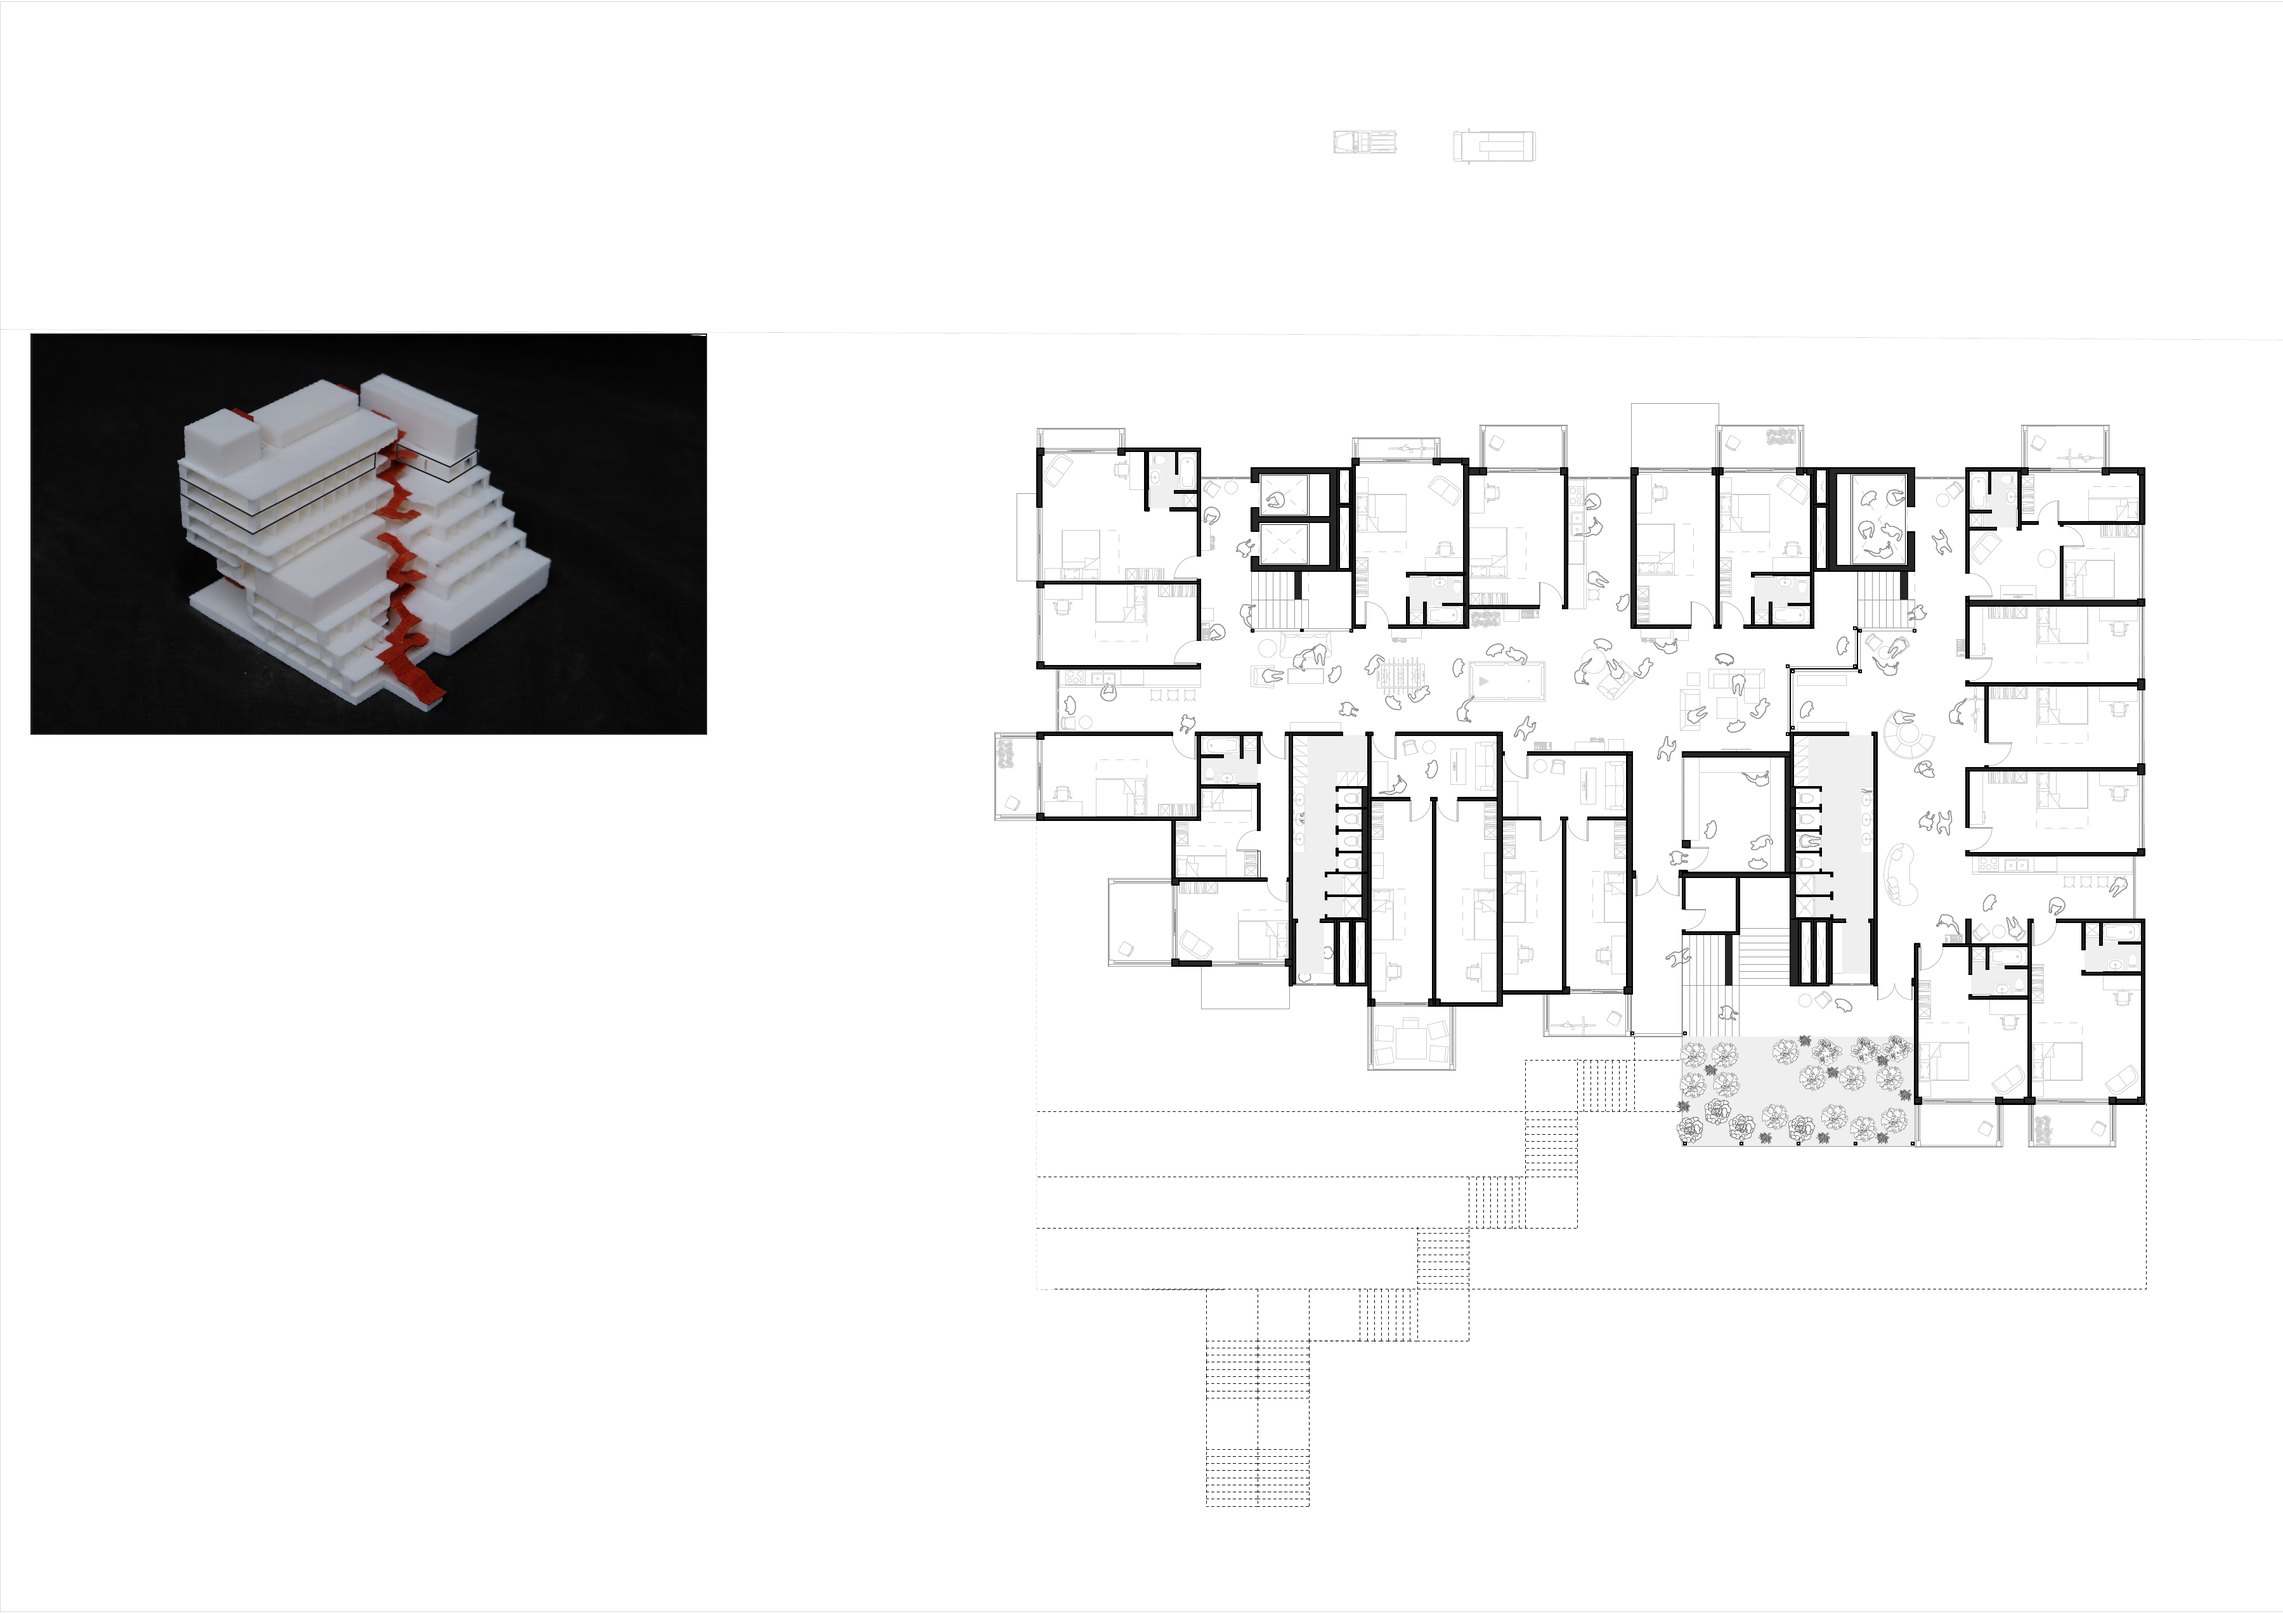
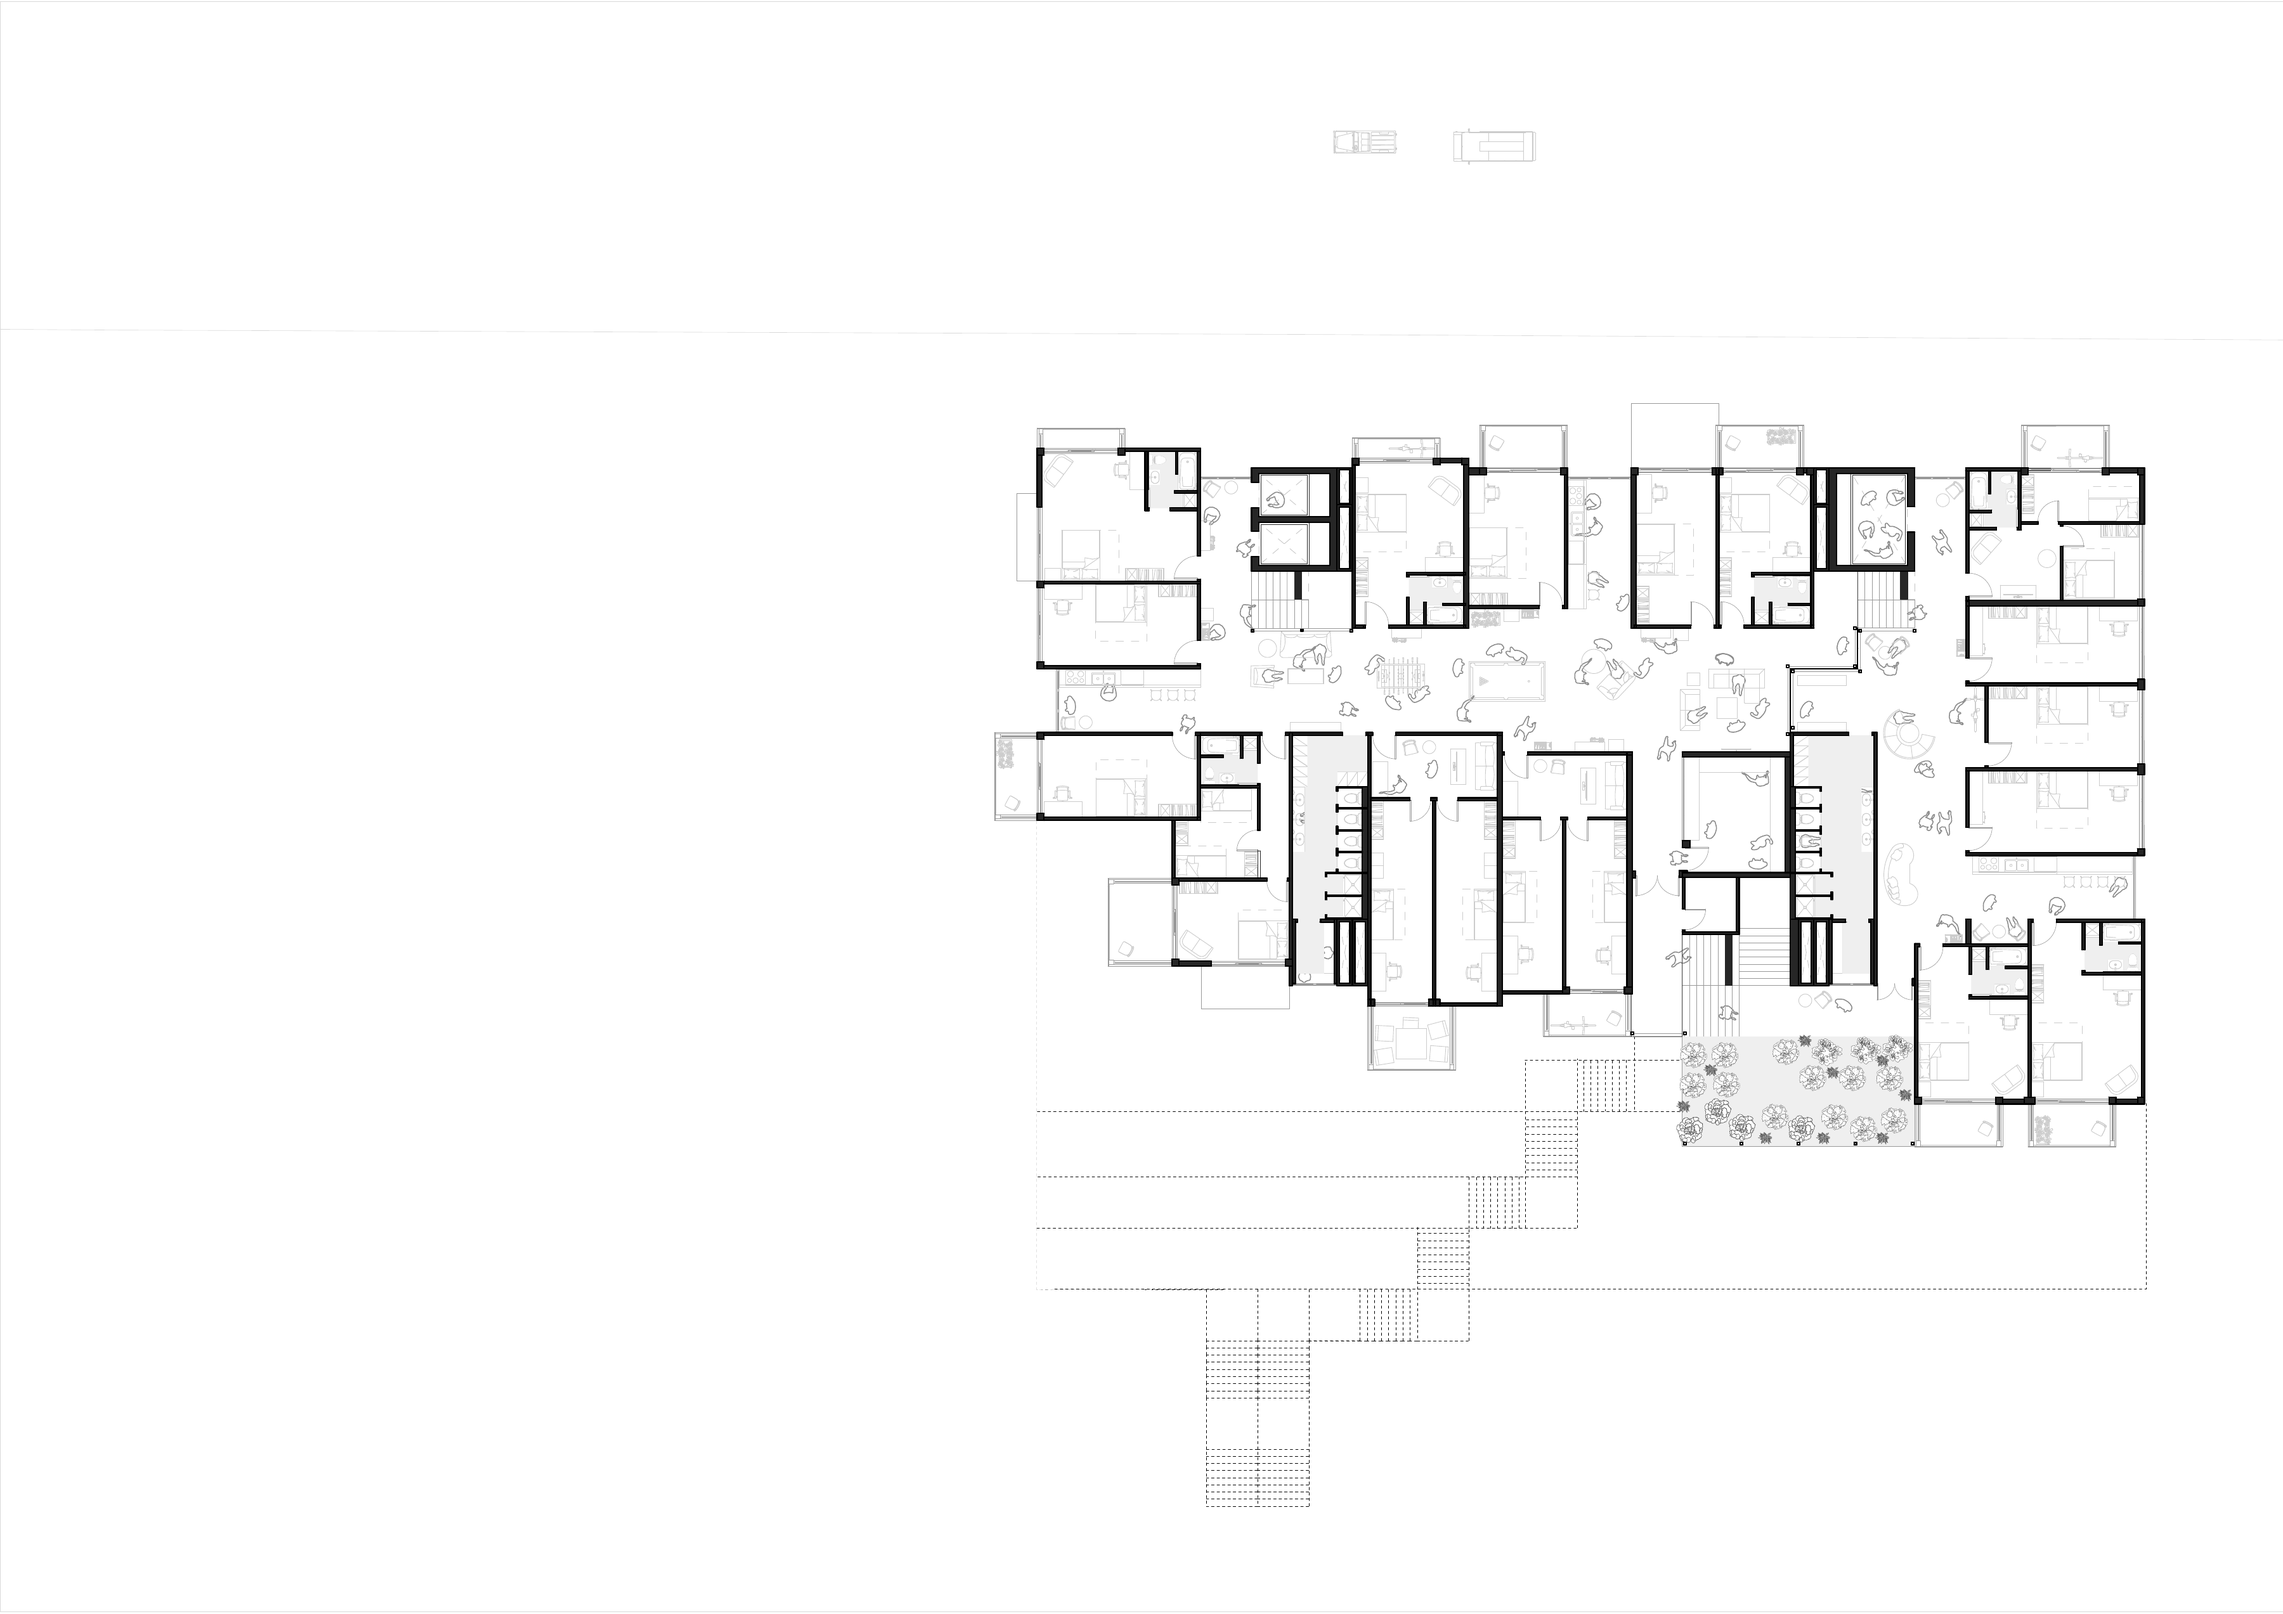
East 5th: take the model photos out of the plan sheets
Claude-Session: https://claude.ai/code/session_012xVSFeyKoQyZUFPAaCyKB9

Changed region(s): [[0.0, 0.1862, 0.3111, 0.4654]]

diff --git a/public/projects.js b/public/projects.js
@@ -95,7 +95,7 @@ window.PROJECTS = {
     credits: [["Site", "324 E 5th St, New York"], ["Studio", "Core III, Columbia GSAPP"], ["Program", "Housing as social infrastructure"], ["Critic", "Lindy Roy"], ["Year", "2025"]],
     diagram: {src: "img/social-sanctuary/hand-drawing.jpg"},
     // no hero: the hand drawing opens, then the stair render, his sheets 11-15 (words, titles, scales and the photo's
-    // dashed leader taken off), the aerial render last (his order, 2026-11-05)
+    // dashed leader taken off, model photos removed 2026-11-06), the aerial render last (his order, 2026-11-05)
     inOrder: true,
     grid: [
       {src: "img/social-sanctuary/render-stairs.jpg", caption: "Stairs"},
